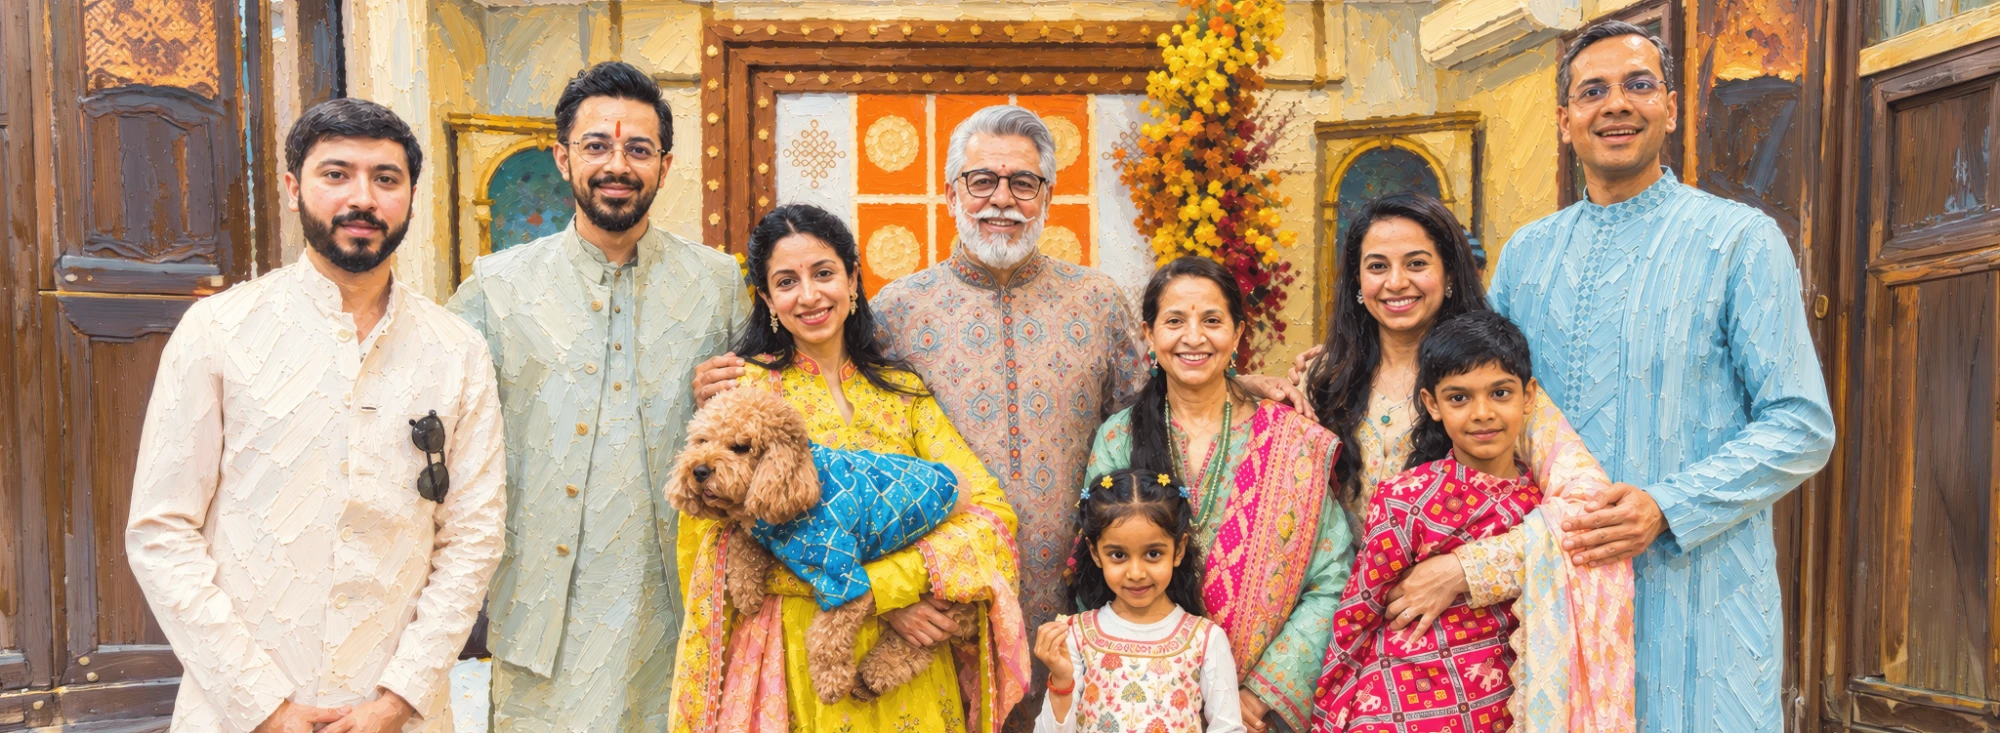
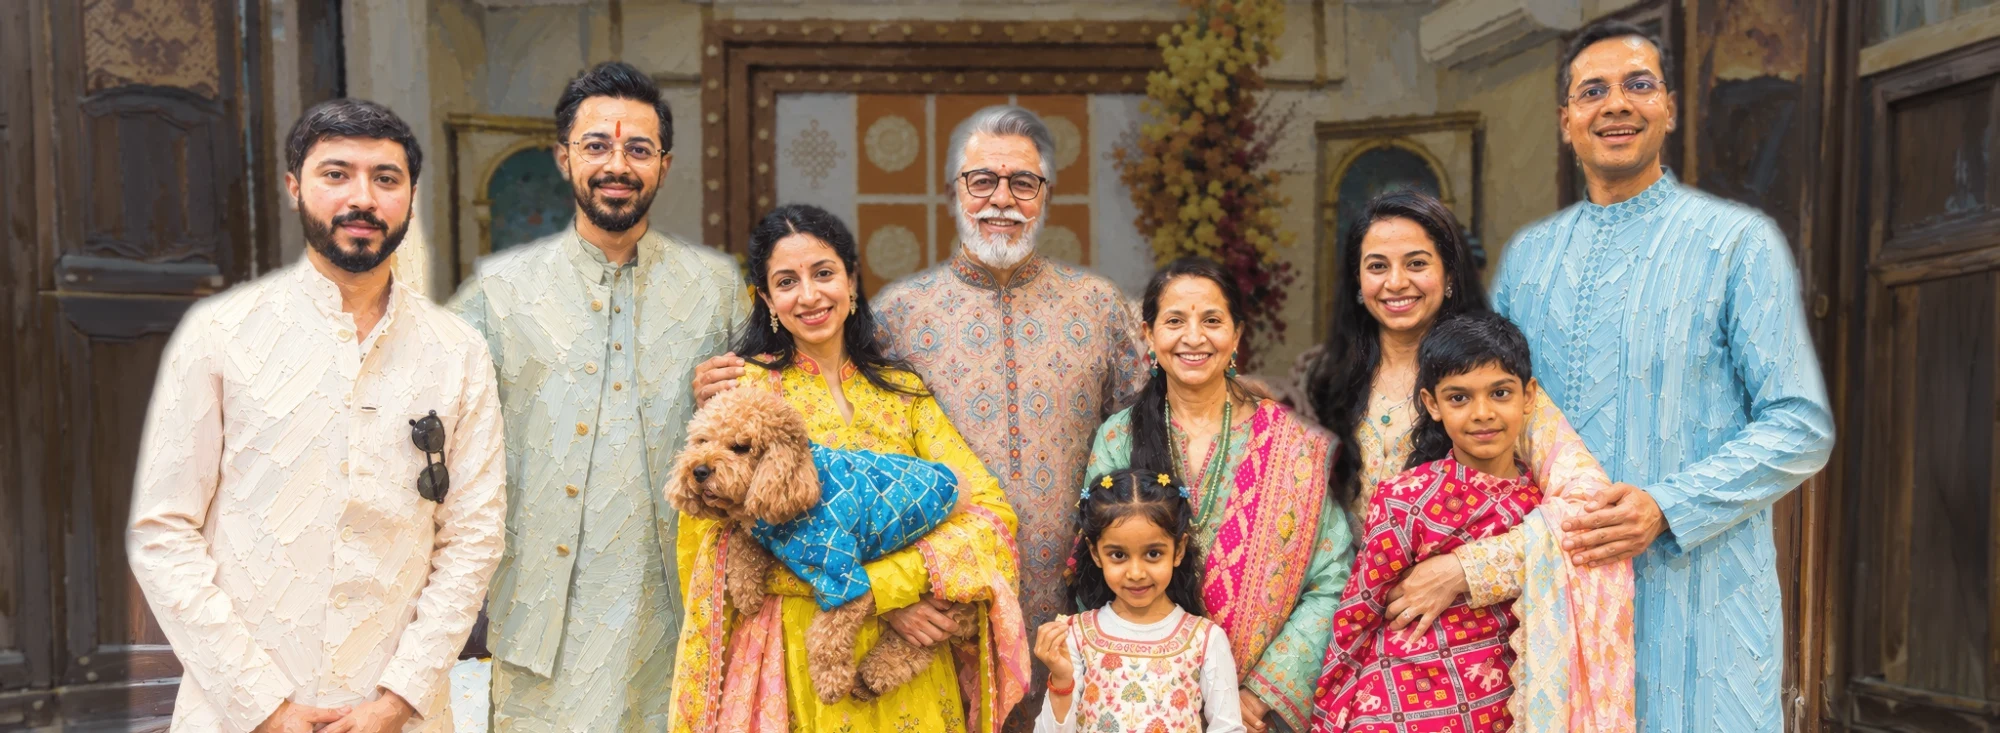
Family painting: left of the text, larger readable words, words come apart in transition
- Painting sits on the left with the text on the right, as for every facet
- Its background (doors, walls) toned down so the family carries the colour; the painting shows more strongly under the words
- Desktop: fourteen family words at several larger sizes, set into the family's clothes, clear of faces
- Scrolling in or out, the painting breaks into its words, which drift off and fade, and gather again on the way back

Claude-Session: https://claude.ai/code/session_011tDJ4uajGqNBzUiiqwHwYC

diff --git a/js/app.js b/js/app.js
@@ -120,76 +120,138 @@
   const layoutFor = s => wp.layout(spec(s), W, H, dpr);
 
   // ---------------- the family: the painting itself, set in words ----------------
-  // One facet is shown differently. Instead of a cut-out portrait, the whole family painting appears large and in its
-  // own colours, made of rows of small words (finer across the faces, so each one stays recognisable), with the
-  // painting's brushwork showing faintly between the letters. Desktop: wide across the screen, the text below it.
-  // Phone: as tall as the other portraits, panning slowly across the family as you scroll.
+  // One facet is shown differently. Instead of a cut-out portrait, the family painting appears in its own colours,
+  // made of rows of small words (finer across the faces, so each one stays recognisable), with the painting's
+  // brushwork faintly between the letters and its background toned down. On desktop a handful of larger words for
+  // this facet are set into the family's clothes, so some of it can be read at a glance. Scrolling in or out, the
+  // painting comes apart into its words, which drift off and fade (and gather again on the way back).
+  // Desktop: on the left, the text on the right, as with every facet. Phone: as tall as the portraits, panning across.
   const ART = (() => {
     const fi = FACETS.findIndex(f => f.art); if (fi < 0) return null;
-    const f = FACETS[fi], state = String(fi), el = $('.famart'), x = el.getContext('2d'), img = new Image(), root = document.documentElement;
-    let built = '', box = null, shown = -1;
-    img.src = f.art;
-    const loaded = img.decode().catch(() => {});
+    const f = FACETS[fi], state = String(fi), el = $('.famart'), x = el.getContext('2d'), root = document.documentElement;
+    const img = new Image(), mimg = new Image();
+    let built = '', box = null, shown = -1, words = [], under = null, layer = null, D = 1;
+    img.src = f.art; mimg.src = f.artMask;
+    const loaded = Promise.all([img.decode(), mimg.decode()]).catch(() => {});
     function place() {
       const vw = innerWidth, vh = innerHeight, ar = (img.naturalWidth / img.naturalHeight) || 2000 / 733;
-      let w, h, top;
-      if (MOBILE.matches) { h = H; w = h * ar; top = parseFloat(getComputedStyle(root).getPropertyValue('--hdr')) + 2; }
-      else { w = Math.min(vw - 260, vh * 0.56 * ar); h = w / ar; top = vh - H; }   // clear of the facet rail on the right
-      box = { w: Math.round(w), h: Math.round(h), top };
-      Object.assign(el.style, { width: box.w + 'px', height: box.h + 'px', top: top + 'px' });
-      root.style.setProperty('--artH', box.h + 'px'); root.style.setProperty('--artW', box.w + 'px');
+      const hdr = parseFloat(getComputedStyle(root).getPropertyValue('--hdr'));
+      let w, h, top, left;
+      if (MOBILE.matches) { h = H; w = h * ar; top = hdr + 2; left = 0; }
+      else { w = Math.min(vw * 0.6, (vh - hdr - 60) * ar); h = w / ar; left = vw * 0.025; top = hdr + (vh - hdr - h) / 2; }
+      box = { w: Math.round(w), h: Math.round(h), top, left };
+      Object.assign(el.style, { width: box.w + 'px', height: box.h + 'px', top: top + 'px', left: left + 'px' });
       shown = -1;
     }
     function build() {
       if (!box || !img.naturalWidth) return;
-      const d = Math.min(2, dpr), cw = Math.round(box.w * d), ch = Math.round(box.h * d), key = cw + 'x' + ch;
+      D = Math.min(2, dpr);
+      const cw = Math.round(box.w * D), ch = Math.round(box.h * D), mob = MOBILE.matches, key = cw + 'x' + ch + mob;
       if (key === built) return; built = key;
       el.width = cw; el.height = ch;
-      // the words, in white, row after row
-      const t = document.createElement('canvas'); t.width = cw; t.height = ch;
-      const tx = t.getContext('2d'), words = spec(state).words.map(w => w.t.toUpperCase()), R = seeded(fi * 31 + 7);
-      if ('letterSpacing' in tx) tx.letterSpacing = '0.2px';
-      tx.fillStyle = '#fff'; tx.textBaseline = 'alphabetic';
-      const rows = fs => {
-        tx.font = `700 ${fs}px ${window.WP_FONT}`;
-        for (let y = fs * 0.8; y < ch + fs; y += fs * 0.96) {
-          let px = -R() * fs * 4;
-          while (px < cw) { const w = words[(R() * words.length) | 0]; tx.fillText(w, px, y); px += tx.measureText(w).width + fs * 0.3; }
-        }
-      };
-      // the faces (kept in the facet's data relative to the group) in finer words, everything else in the body size
+      const R = seeded(fi * 31 + 7), pool = spec(state).words.map(w => w.t.toUpperCase());
+      // where the family is (a small mask made with the painting), and where the faces are
+      const mc = document.createElement('canvas'); mc.width = mimg.naturalWidth; mc.height = mimg.naturalHeight;
+      const mx = mc.getContext('2d'); mx.drawImage(mimg, 0, 0); const md = mx.getImageData(0, 0, mc.width, mc.height).data;
+      const onFamily = (px, py) => { const i = (Math.min(mc.height - 1, Math.max(0, (py / ch * mc.height) | 0)) * mc.width + Math.min(mc.width - 1, Math.max(0, (px / cw * mc.width) | 0))) * 4; return md[i] > 160; };
       const ex = 65 / 2000, ey = 9 / 733, sx = 1830 / 2000, sy = 724 / 733;
       const faces = f.heads.map(([hx, hy, rx, ry]) => [(ex + hx * sx) * cw, (ey + hy * sy) * ch, rx * sx * cw * 1.3, ry * sy * ch * 1.25]);
-      const ellipses = () => { tx.beginPath(); faces.forEach(([a, b, rx, ry]) => { tx.moveTo(a + rx, b); tx.ellipse(a, b, rx, ry, 0, 0, Math.PI * 2); }); };
-      const body = ch / 74;
-      tx.save(); tx.beginPath(); tx.rect(0, 0, cw, ch); faces.forEach(([a, b, rx, ry]) => { tx.moveTo(a + rx, b); tx.ellipse(a, b, rx, ry, 0, 0, Math.PI * 2, true); }); tx.clip('evenodd'); rows(body); tx.restore();
-      tx.save(); ellipses(); tx.clip(); rows(body * 0.56); tx.restore();
-      // coloured by the painting, a touch brighter so the words carry it on the dark ground
+      const inFace = (px, py, pad = 1) => faces.some(([a, b, rx, ry]) => ((px - a) / (rx * pad)) ** 2 + ((py - b) / (ry * pad)) ** 2 < 1);
+      const t = document.createElement('canvas'); t.width = cw; t.height = ch;
+      const tx = t.getContext('2d'); tx.fillStyle = '#fff'; tx.textBaseline = 'alphabetic';
+      const font = fs => `700 ${fs}px ${window.WP_FONT}`;
+      words = [];
+      // the larger words first (desktop): a few sizes, on the family's clothes, never over a face or each other
+      const big = [], body = ch / (mob ? 74 : 70);
+      if (!mob) {
+        const sizes = [5.2, 4.4, 3.8, 3.3, 3, 2.7, 2.5, 2.3, 2.1, 2, 1.9, 1.8, 1.7, 1.7];
+        (f.feature || []).forEach((t0, k) => {
+          const fs = body * (sizes[k] || 1.7); tx.font = font(fs); const w = tx.measureText(t0).width, hh = fs * 0.74;
+          for (let tries = 0; tries < 500; tries++) {
+            const px = cw * 0.07 + R() * (cw * 0.86 - w), py = ch * 0.1 + hh + R() * (ch * 0.8 - hh);   // clear of the faded edges
+            const pts = [[px, py], [px + w, py], [px, py - hh], [px + w, py - hh], [px + w / 2, py - hh / 2], [px + w / 4, py - hh / 2], [px + w * 0.75, py - hh / 2]];
+            if (!pts.every(([a, b]) => onFamily(a, b) && !inFace(a, b, 1.15))) continue;
+            const pad = fs * 0.12, r = [px - pad, py - hh - pad, px + w + pad, py + pad];
+            if (big.some(q => r[0] < q[2] && r[2] > q[0] && r[1] < q[3] && r[3] > q[1])) continue;
+            big.push(r); words.push({ t: t0, x: px, y: py, w, fs, big: true }); break;
+          }
+        });
+      }
+      const blocked = (a, b, w, fs) => big.some(q => a < q[2] && a + w > q[0] && b - fs * 0.8 < q[3] && b > q[1]);
+      // then rows of small words everywhere else, finer across the faces
+      const rows = (fs, clip) => {
+        tx.font = font(fs);
+        for (let y = fs * 0.8; y < ch + fs; y += fs * 0.92) {
+          let px = -R() * fs * 4;
+          while (px < cw) {
+            const w0 = pool[(R() * pool.length) | 0], w = tx.measureText(w0).width;
+            if (clip(px + w / 2, y - fs * 0.35) && !blocked(px, y, w, fs)) words.push({ t: w0, x: px, y, w, fs });
+            px += w + fs * 0.26;
+          }
+        }
+      };
+      rows(body, (a, b) => !inFace(a, b));
+      rows(body * 0.56, (a, b) => inFace(a, b));
+      words.forEach(w => { tx.font = font(w.fs); tx.fillText(w.t, w.x, w.y); });
+      // coloured by the painting; the larger words a little brighter so they read
       tx.globalCompositeOperation = 'source-in'; tx.filter = 'brightness(1.12) saturate(1.08)'; tx.drawImage(img, 0, 0, cw, ch); tx.filter = 'none';
-      // the painting faintly underneath, so its brushwork shows between the letters; the words on top
-      x.clearRect(0, 0, cw, ch);
-      x.globalAlpha = 0.32; x.drawImage(img, 0, 0, cw, ch);
-      x.globalAlpha = 1; x.drawImage(t, 0, 0);
-      // and the edges melt into the ground
-      x.globalCompositeOperation = 'destination-in';
-      const fade = (x0, y0, x1, y1, a, b) => { const g = x.createLinearGradient(x0, y0, x1, y1); g.addColorStop(0, 'rgba(0,0,0,0)'); g.addColorStop(a, '#000'); g.addColorStop(b, '#000'); g.addColorStop(1, 'rgba(0,0,0,0)'); x.fillStyle = g; x.fillRect(0, 0, cw, ch); };
-      fade(0, 0, cw, 0, 0.05, 0.95); fade(0, 0, 0, ch, 0.06, 0.93);
-      x.globalCompositeOperation = 'source-over';
+      tx.globalCompositeOperation = 'source-atop'; tx.globalAlpha = 0.2; tx.fillStyle = '#fff';
+      words.forEach(w => { if (w.big) tx.fillRect(w.x - 2, w.y - w.fs, w.w + 4, w.fs * 1.1); });
+      tx.globalAlpha = 1;
+      // the edges melt into the ground: words and painting alike
+      const fadeEdges = c => {
+        const g2 = c.getContext('2d'); g2.globalCompositeOperation = 'destination-in';
+        const fade = (x0, y0, x1, y1, a, b) => { const g = g2.createLinearGradient(x0, y0, x1, y1); g.addColorStop(0, 'rgba(0,0,0,0)'); g.addColorStop(a, '#000'); g.addColorStop(b, '#000'); g.addColorStop(1, 'rgba(0,0,0,0)'); g2.fillStyle = g; g2.fillRect(0, 0, cw, ch); };
+        fade(0, 0, cw, 0, 0.05, 0.95); fade(0, 0, 0, ch, 0.06, 0.93); g2.globalCompositeOperation = 'source-over';
+      };
+      fadeEdges(t);
+      under = document.createElement('canvas'); under.width = cw; under.height = ch;
+      const ux = under.getContext('2d'); ux.globalAlpha = 0.5; ux.drawImage(img, 0, 0, cw, ch);   // the painting itself carries much of it fadeEdges(under);
+      layer = t;
+      // each word's journey when the painting comes apart: a drift up and to the side, the large words last
+      words.forEach(w => {
+        const a = -Math.PI * (0.25 + R() * 0.5) + (R() - 0.5) * 0.6;
+        w.dx = Math.cos(a) * (60 + R() * 220) * D; w.dy = Math.sin(a) * (60 + R() * 200) * D; w.rot = (R() - 0.5) * 0.5;
+        w.d = w.big ? 0.3 + R() * 0.15 : R() * 0.4; w.h = w.fs * 1.02;
+      });
+      shown = -1;
     }
-    // v: how present the painting is (0–1). On a phone it also pans with the scroll through its section.
+    const easeIO = t => t < 0.5 ? 4 * t * t * t : 1 - Math.pow(-2 * t + 2, 3) / 2;
+    function paint(q) {
+      const cw = el.width, ch = el.height;
+      x.setTransform(1, 0, 0, 1, 0, 0); x.clearRect(0, 0, cw, ch);
+      if (!layer) return;
+      x.globalAlpha = 1 - smooth(0, 0.45, q); x.drawImage(under, 0, 0);
+      if (q <= 0) { x.globalAlpha = 1; x.drawImage(layer, 0, 0); return; }
+      for (const w of words) {
+        const p = Math.min(1, Math.max(0, (q - w.d) / 0.55)), e = easeIO(p), a = 1 - p * p;
+        if (a <= 0.01) continue;
+        const sy0 = w.y - w.fs * 0.86;
+        x.globalAlpha = a;
+        if (e === 0) { x.setTransform(1, 0, 0, 1, 0, 0); x.drawImage(layer, w.x, sy0, w.w, w.h, w.x, sy0, w.w, w.h); continue; }
+        const cxw = w.x + w.w / 2 + w.dx * e, cyw = sy0 + w.h / 2 + w.dy * e, r = w.rot * e;
+        x.setTransform(Math.cos(r), Math.sin(r), -Math.sin(r), Math.cos(r), cxw, cyw);
+        x.drawImage(layer, w.x, sy0, w.w, w.h, -w.w / 2, -w.h / 2, w.w, w.h);
+      }
+      x.setTransform(1, 0, 0, 1, 0, 0); x.globalAlpha = 1;
+    }
+    // v: how present the painting is (0–1)
+    let painted = -1;
     function show(v) {
-      v = Math.round(v * 100) / 100;
+      v = Math.round(v * 200) / 200;
       const mob = MOBILE.matches;
       if (v === shown && !mob) return; shown = v;
-      el.style.opacity = v; el.style.visibility = v > 0.005 ? 'visible' : 'hidden';
-      if (v <= 0.005 || !box) return;
-      const rise = (REDUCED.matches ? 0 : (1 - v) * 18).toFixed(1);
+      el.style.opacity = v > 0.002 ? 1 : 0; el.style.visibility = v > 0.002 ? 'visible' : 'hidden';
+      if (v <= 0.002 || !box) return;
+      const q = REDUCED.matches ? 0 : 1 - v;
+      if (REDUCED.matches) el.style.opacity = v;
+      if (q !== painted) { painted = q; paint(q); }
       if (mob) {
         const r = $('#facet-' + fi).getBoundingClientRect(), p = smooth(0.12, 0.88, (innerHeight * 0.5 - r.top) / r.height);
-        el.style.transform = `translate(${(-(box.w - innerWidth) * p).toFixed(1)}px, ${rise}px)`;
-      } else el.style.transform = `translate(-50%, ${rise}px)`;
+        el.style.transform = `translateX(${(-(box.w - innerWidth) * p).toFixed(1)}px)`;
+      } else el.style.transform = 'none';
     }
-    return { state, loaded, place, build, show };
+    return { state, loaded, place, build: () => { build(); painted = -1; }, show };
   })();
   const isArt = s => !!ART && s === ART.state;
 
@@ -287,7 +349,7 @@
       // to and from the family painting: the portrait fades as the painting rises into place, and back
       const fa = b.a === b.b ? 1 : isArt(b.b) ? b.e : 1 - b.e, other = isArt(b.a) ? b.b : b.a;
       if (!isArt(other)) anim = drawPortrait(other, 1 - smooth(0.05, 0.55, fa), 0, 1, now) || anim;
-      ART.show(smooth(0.4, 0.95, fa));
+      ART.show(smooth(0.3, 1, fa));
     } else if (b.b !== b.a && b.e > 0 && b.e < 1 && !REDUCED.matches) {
       // shuffle: every word of one portrait travels into the next and becomes one of its words
       const A = layoutFor(b.a), B = layoutFor(b.b);

diff --git a/js/data.js b/js/data.js
@@ -13,7 +13,9 @@ window.FACETS = [
     line: "On the course, as in life: patience first, then precision.",
     anchor: [0.42, 0.79],   // the detail the note's line points to
     story: ["The same qualities show up on the green as in the boardroom: a steady swing, a competitor\u2019s focus and a deep respect for fair play.", "Partners remember the calm before a difficult putt, and the generosity after it, win or lose."] },
-  { code: 'F', name: 'Family Man', short: 'Family', img: 'family', art: 'assets/family.webp', headScale: 1.35, headWeight: 700, heads: [[0.156, 0.243, 0.03, 0.097], [0.3, 0.195, 0.03, 0.099], [0.405, 0.367, 0.027, 0.09], [0.511, 0.25, 0.03, 0.099], [0.616, 0.43, 0.027, 0.09], [0.731, 0.36, 0.027, 0.094], [0.846, 0.14, 0.03, 0.099], [0.585, 0.733, 0.025, 0.076], [0.769, 0.519, 0.026, 0.083], [0.372, 0.616, 0.033, 0.083]],   // shown as the painting itself, set in words (see the family painting in app.js)
[1 lines of base64/hex data omitted]
+    feature: ['FAMILY', 'LOVE', 'HOME', 'GRANDFATHER', 'WARMTH', 'TOGETHER', 'LAUGHTER', 'ROOTS', 'BELONGING', 'MEMORIES', 'FATHER', 'BOND', 'HEART', 'CARE'],   // larger, readable words set into the family painting (desktop)
+    headScale: 1.35, headWeight: 700, heads: [[0.156, 0.243, 0.03, 0.097], [0.3, 0.195, 0.03, 0.099], [0.405, 0.367, 0.027, 0.09], [0.511, 0.25, 0.03, 0.099], [0.616, 0.43, 0.027, 0.09], [0.731, 0.36, 0.027, 0.094], [0.846, 0.14, 0.03, 0.099], [0.585, 0.733, 0.025, 0.076], [0.769, 0.519, 0.026, 0.083], [0.372, 0.616, 0.033, 0.083]],   // shown as the painting itself, set in words (see the family painting in app.js)
     ink: ['#BF5B76', '#4b2931'],
     line: "Before every title, he is a father, a husband and a grandfather.",
     story: ["The values he carries into every boardroom were shaped at home, and are still kept there.", "Family members describe a man who listens first, laughs easily and is never too busy to be present."] },

diff --git a/css/style.css b/css/style.css
@@ -71,10 +71,10 @@ body.ready .frame { opacity: 1; }
 .hero .note { opacity: calc(var(--no, 0) * var(--reveal, 1)); }
 body.on-splash .top, body.on-splash .note { pointer-events: none !important; }
 .portrait { display: block; }
-.famart { position: absolute; left: 50%; z-index: 2; pointer-events: none; opacity: 0; visibility: hidden; transform: translate(-50%, 18px); will-change: opacity, transform; }
-/* the family: the text sits under the painting, in a bold condensed sans */
-#facet-2 .note { left: calc(50% - var(--artW, 80vw) / 2 + 2vw); top: calc(100vh - var(--stageH, 80vh) + var(--artH, 40vh) + 30px); width: min(640px, 52vw); transform: translateY(var(--ny, 0px)); }
-#facet-2 .fline { font: 700 clamp(34px, 3.1vw, 52px)/1.02 var(--narrow); letter-spacing: -.005em; margin-bottom: 14px; }
+.famart { position: absolute; left: 0; z-index: 2; pointer-events: none; opacity: 0; visibility: hidden; }
+/* the family: the painting on the left, a little wider than the portraits; the text on the right in a bold condensed sans */
+#facet-2 .note { left: 66vw; width: min(380px, 28vw); }
+#facet-2 .fline { font: 700 clamp(30px, 2.6vw, 44px)/1.04 var(--narrow); letter-spacing: -.005em; margin-bottom: 14px; }
 #facet-2 .story p { font: 400 15px/1.55 var(--sans); }
 .loading { position: absolute; left: 34%; top: 50%; transform: translate(-50%, -50%); margin: 0; font: 500 11px var(--sans); letter-spacing: .2em; text-transform: uppercase; color: var(--muted); transition: opacity .6s; }
 body.ready .loading { opacity: 0; }
@@ -338,7 +338,7 @@ body.ready .splash__scroll { opacity: 1; }
   /* phones: the logos across the top, both words on one line above his head, the figure filling the lower part */
   .splash { --fh: min(64svh, 150vw); }
   .famart { left: 0; }
-  #facet-2 .note { left: 0; width: auto; top: calc(var(--hdr) + 2px + var(--stageH, 50svh) + 22px); }
+  #facet-2 .note { left: 0; width: auto; }
   #facet-2 .fline { font-size: 32px; }
   .splash__logo { top: calc(env(safe-area-inset-top, 0px) + 26px); translate: 0 var(--wy, 0px); }
   .splash__logo--hero { left: 20px; width: 92px; }
